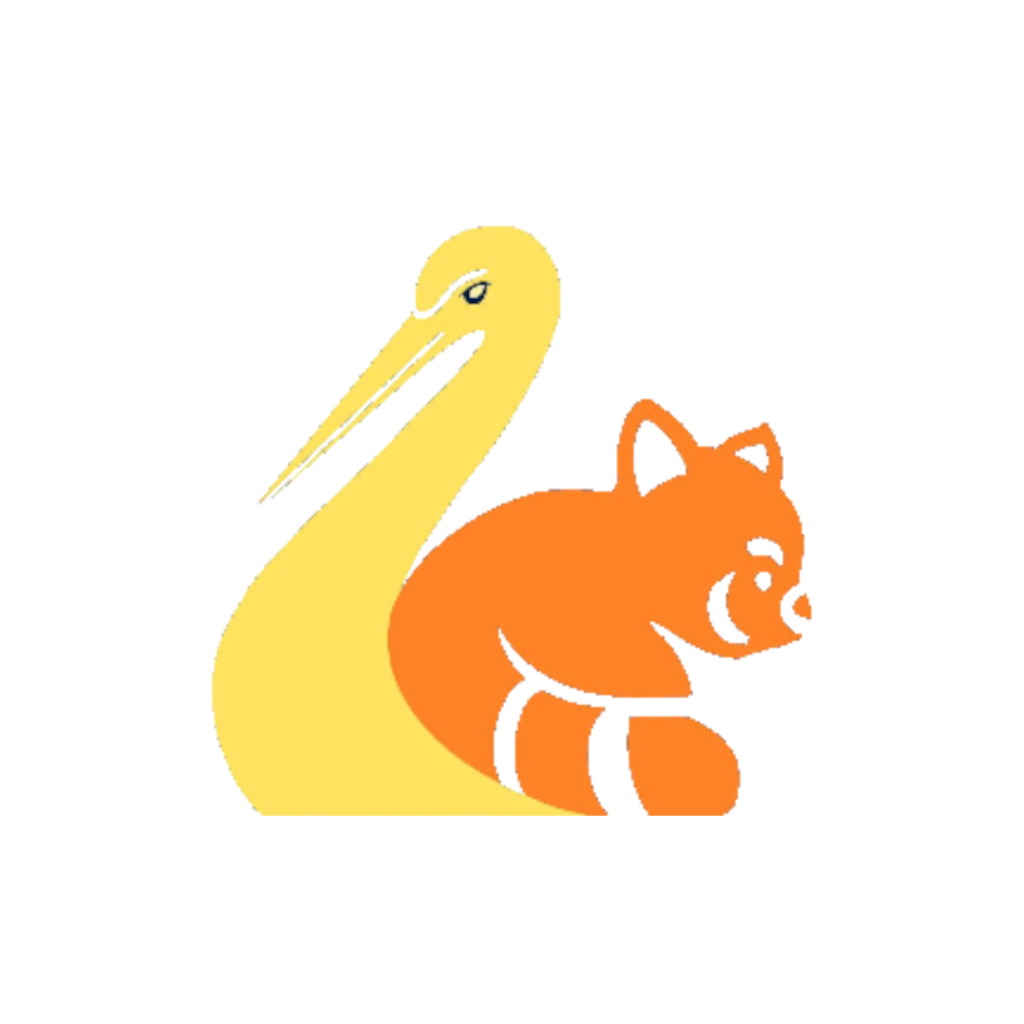
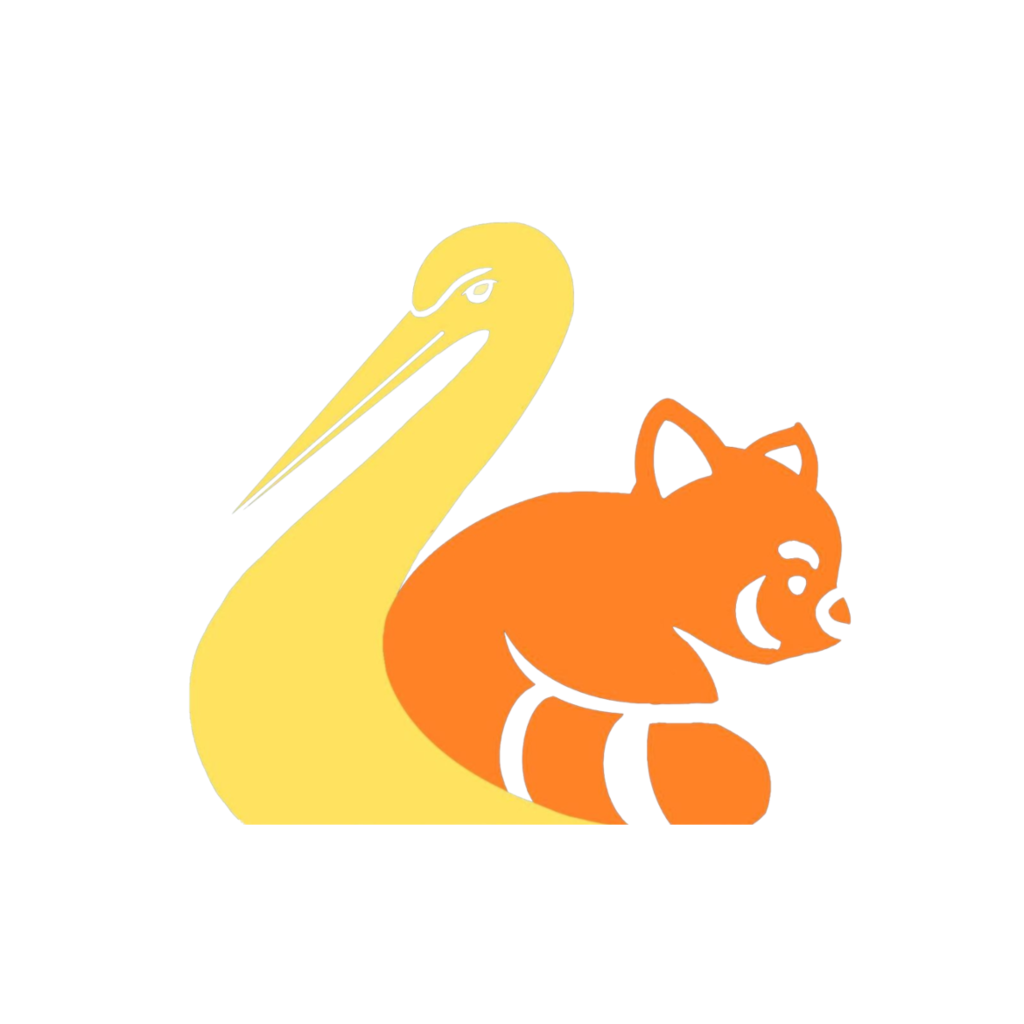
Icônes bonne résolution + readme

Changed region(s): [[0.1875, 0.2188, 0.8438, 0.8125], [0.4062, 0.4062, 0.5625, 0.5625]]

diff --git a/readme.MD b/readme.MD
@@ -1,11 +1,19 @@
-# MyApp
-nécessaire : npm et expo
-d'abord installer les imports : npm install <l'import en question> exemple : react navigation
-ensuite expo run et flasher le QR code avec l'appli expo sur portable
+# InsidePSBS
 
-gros problème sur l'agenda d'optimisation , quand refresh , prépare toute les pages possible donc va chercher super loin dans la liste : exemple je regarde le 15 juillet 2021 , va 
+Application mobile dédiée à la vie étudiante à TPS et à l'ESBS.
 
+## Packets requis :
 
-solve:
-d'abord on trouve les marked date en ajoutant à une liste tout lesjours qu'il y a dedans ,
-ensuite quand un jour est choisi, on va chercher tout ce qu'il arrive en ce jour(et ce qu'il y a après? mais donenr un jour max) et le display,
+ - npm
+ - expo / expo-cli
+ - eas-cli
+
+## Installation :
+
+ - Cloner le repo
+ - `npm install` dans le dossier du projet pour installer les dépendances (non synchronisées sur le git)
+ - `expo start` pour lancer le projet. Il faut ensuite scanner le QR code avec l'application Expo Go sur son téléphone connecté au même réseau wi-fi.
+
+## Exporter l'application :
+
+Faire `eas build` (nécessite un compte EAS)
